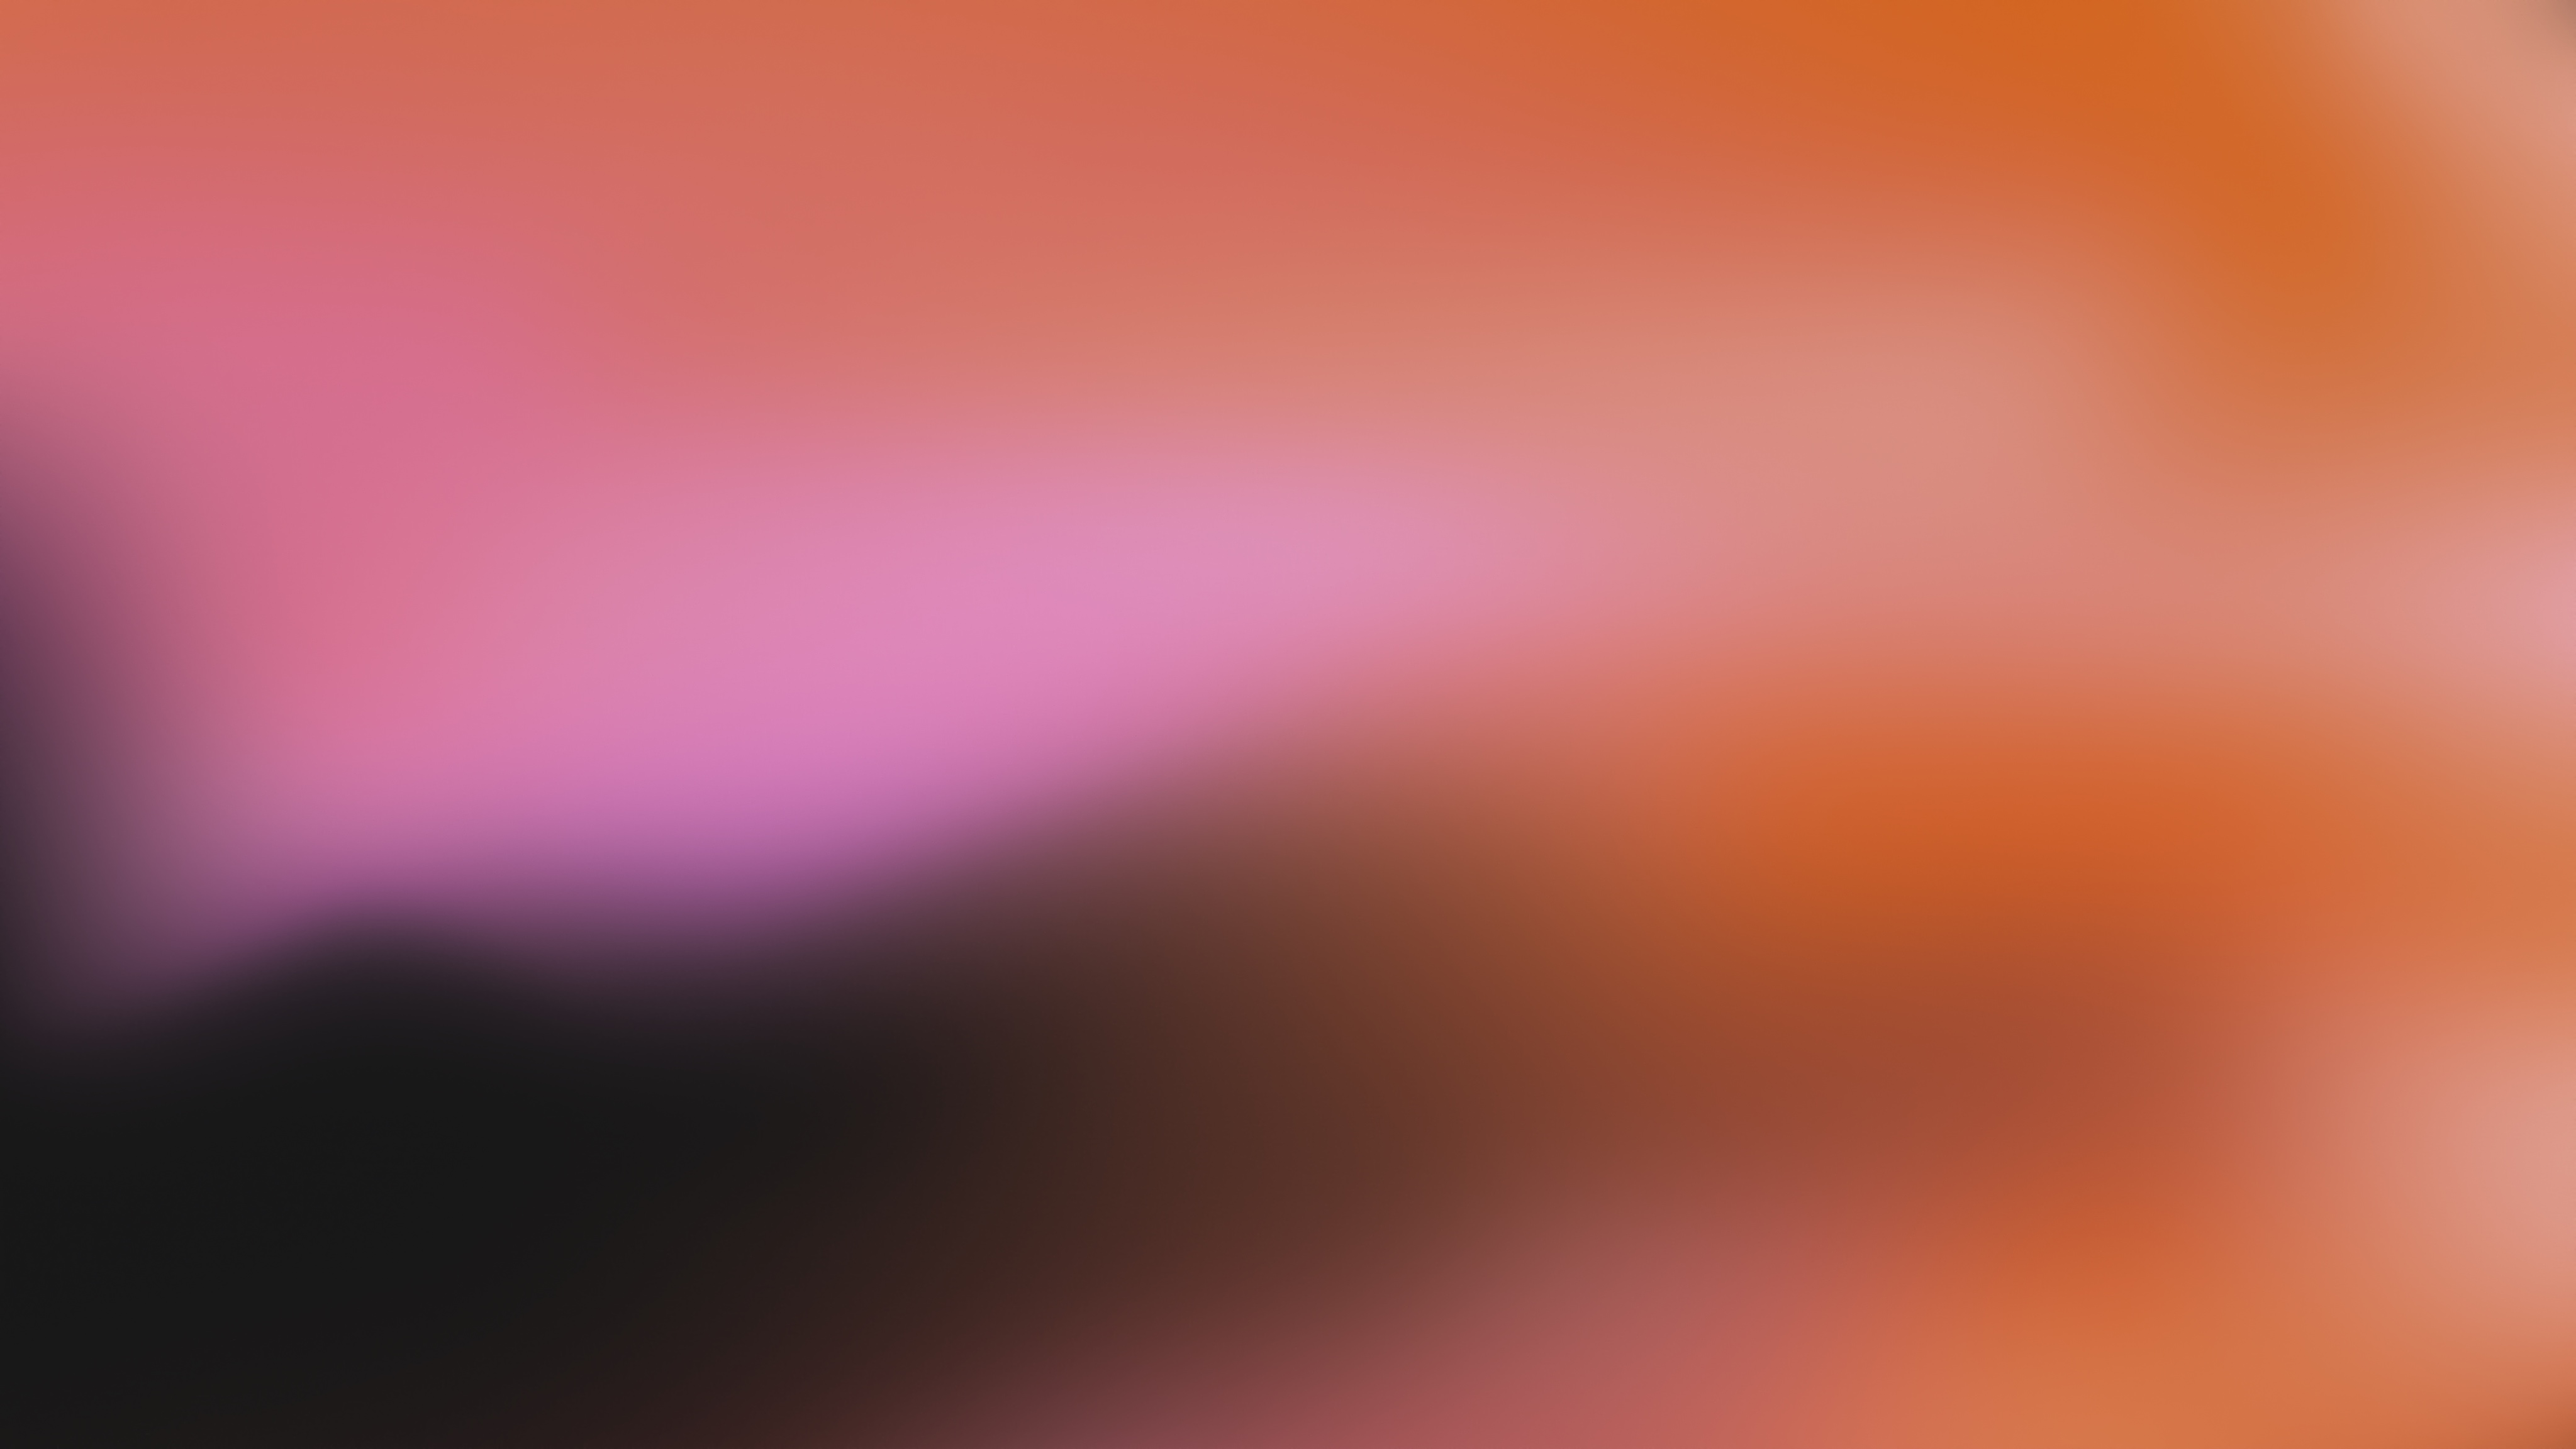
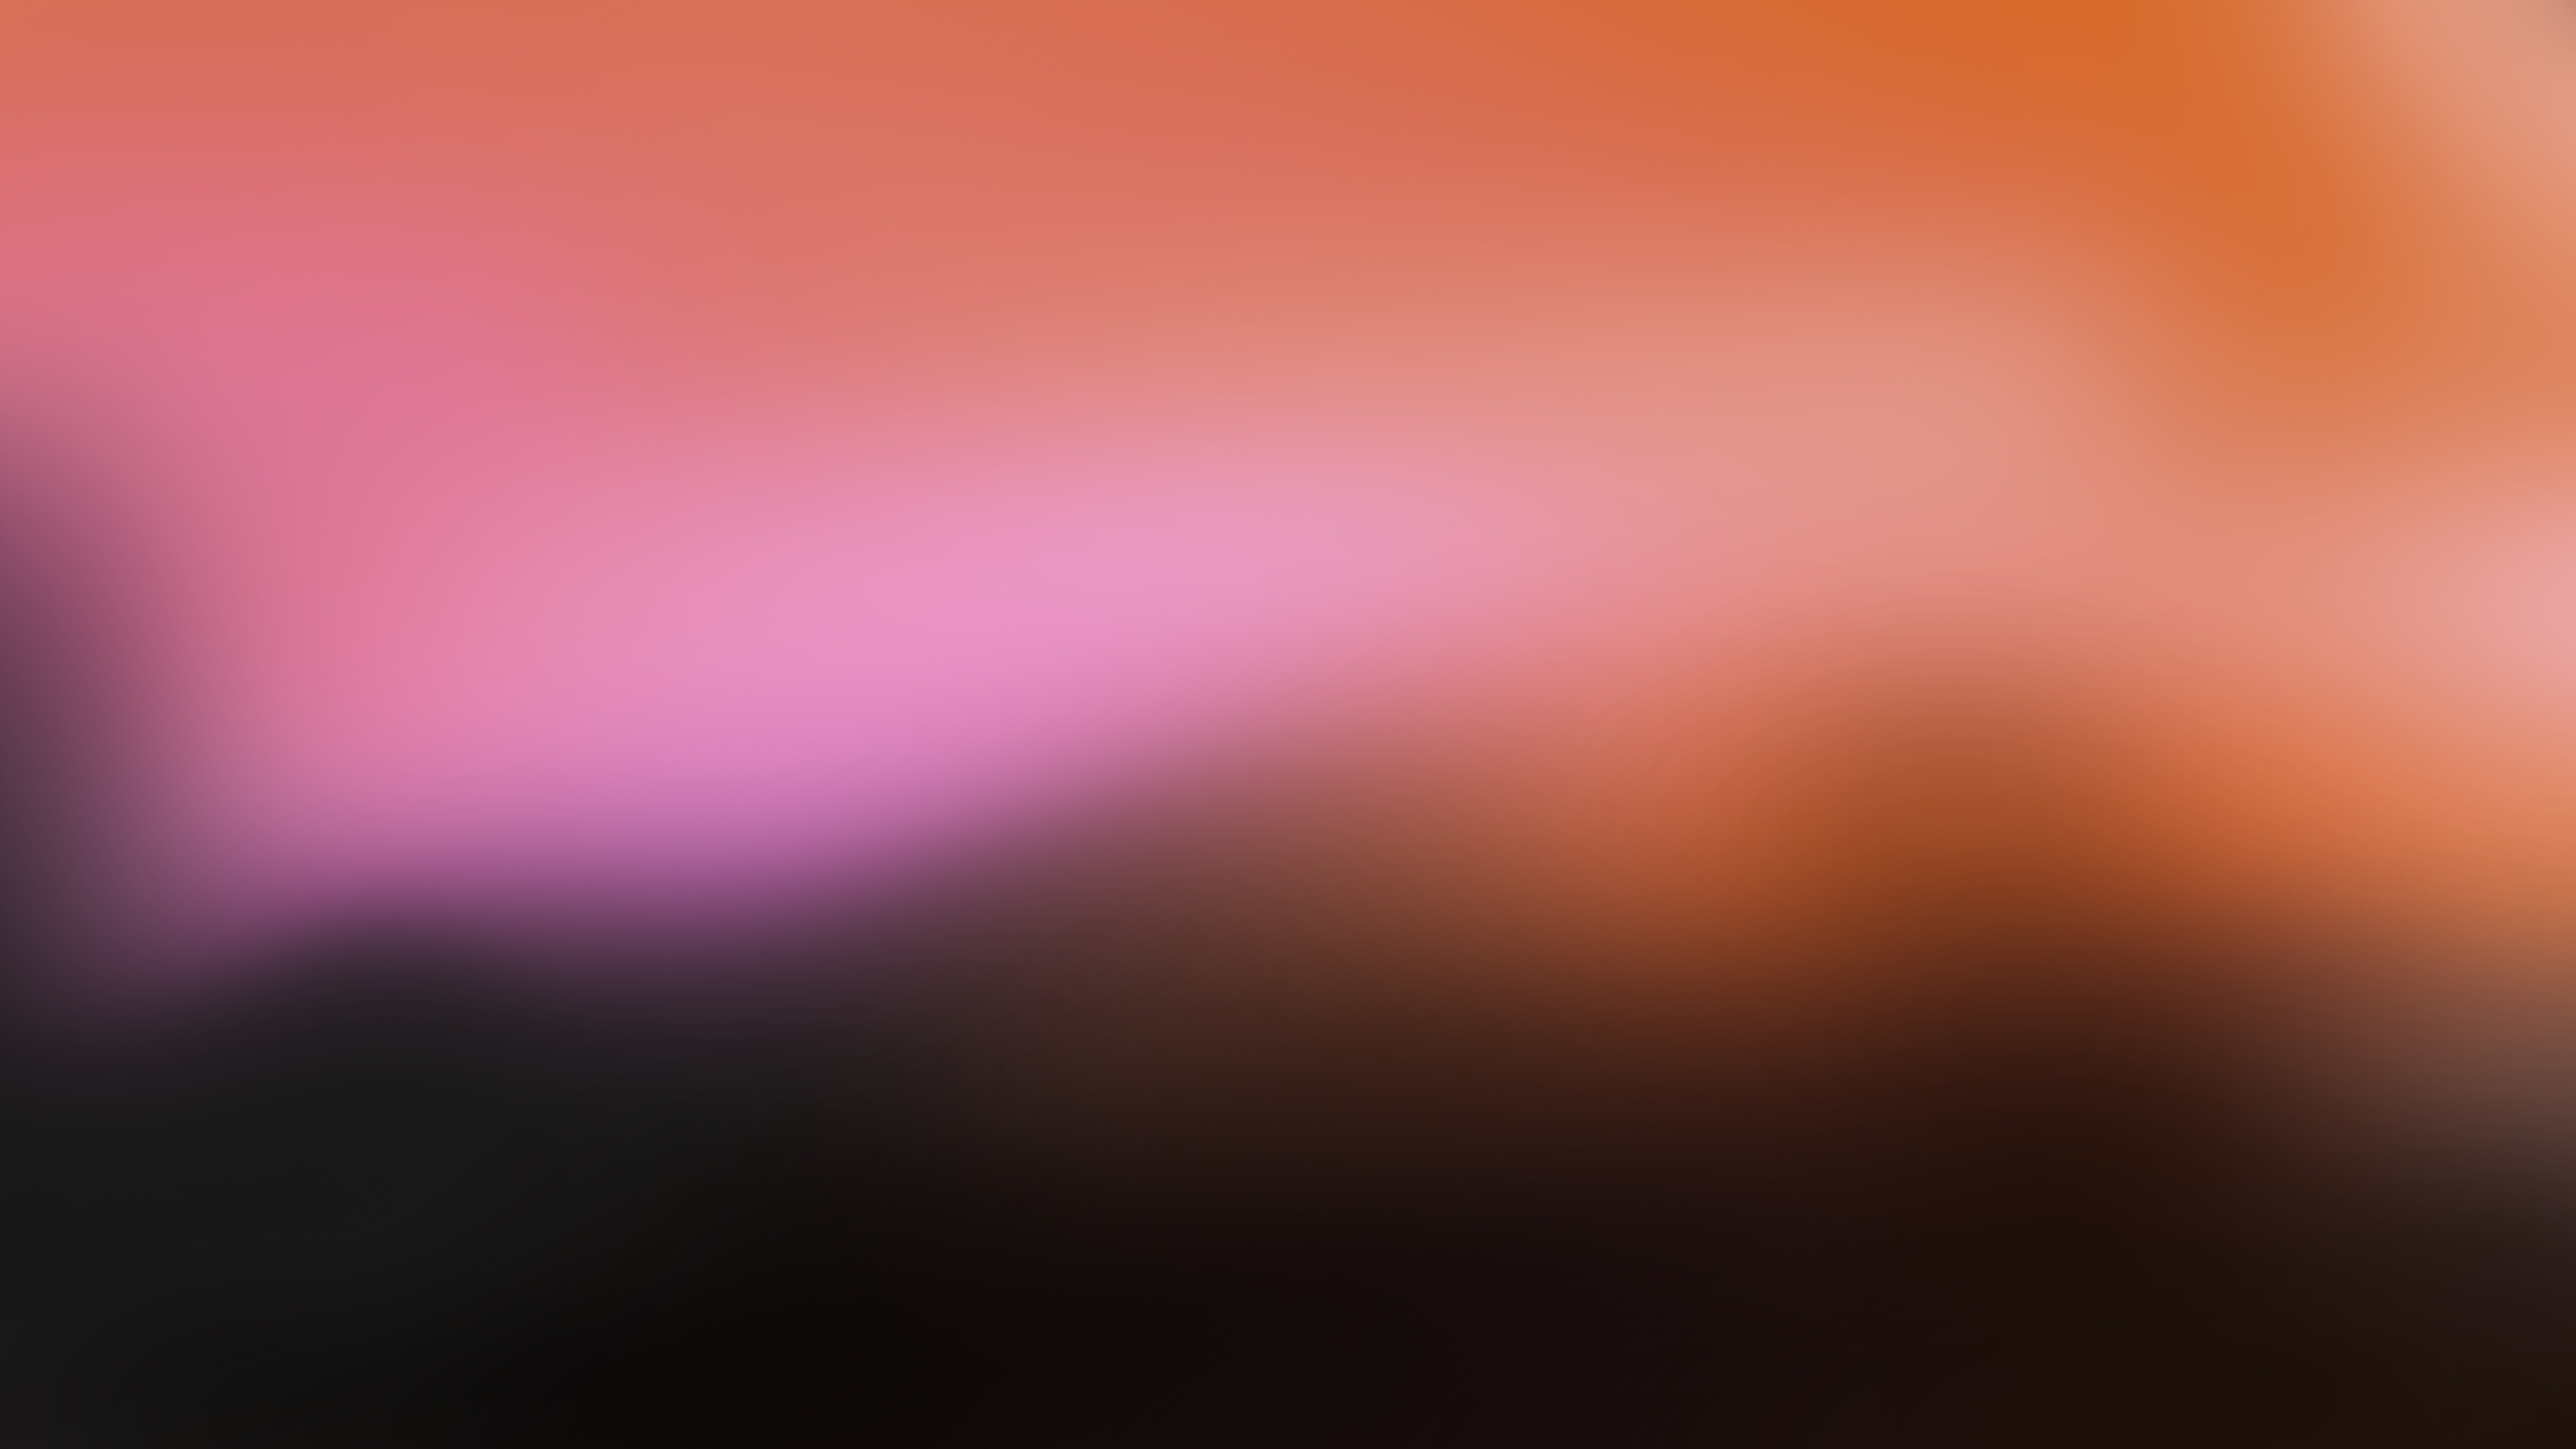
chore: update background image (darker lower half), bust cache to v3
Claude-Session: https://claude.ai/code/session_01TmTdjgoqtMusDpLpnpmhyL

Changed region(s): [[0.2171, 0.4688, 1.0, 1.0]]

diff --git a/app/renderer/style.css b/app/renderer/style.css
@@ -89,7 +89,7 @@ html, body {
    * over the image's bright areas; --bg backstops while the jpg loads. */
   background:
     linear-gradient(rgba(10, 14, 20, 0.38), rgba(10, 14, 20, 0.38)),
-    url('/assets/abstract-background.jpg?v=2') center / cover no-repeat fixed,
+    url('/assets/abstract-background.jpg?v=3') center / cover no-repeat fixed,
     var(--bg);
   color: var(--fg);
   font-family: 'Barlow Condensed', -apple-system, BlinkMacSystemFont, "Segoe UI", system-ui, sans-serif;
